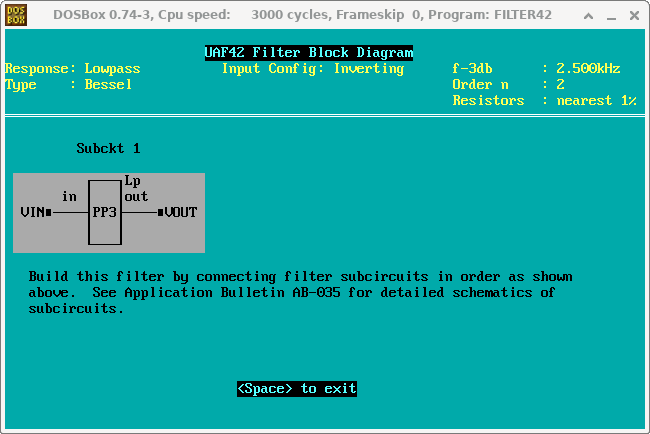
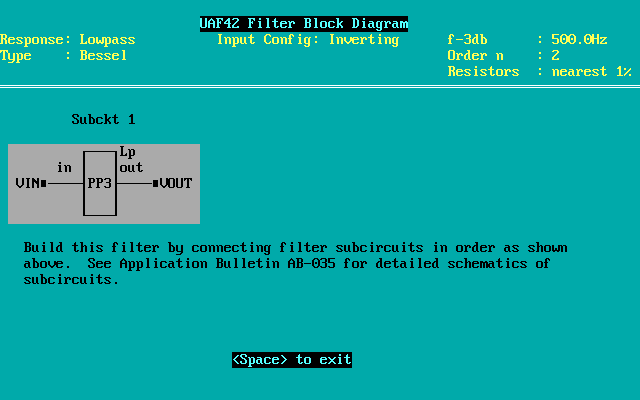
Update filter design

Changed region(s): [[0.0, 0.0, 1.0, 1.0], [0.3438, 0.87, 0.5625, 0.93]]

diff --git a/README.md b/README.md
@@ -1,15 +1,15 @@
-- [Repository Info](#org8175d29)
-- [Images](#org11c3d80)
-- [Schematic](#org97d0d8a)
-- [PCB](#org8b678ba)
-- [Bill of Materials](#orgc61f343)
-- [Development](#org061c413)
+- [Repository Info](#org3efd3b6)
+- [Images](#org4000d6c)
+- [Schematic](#org9702aa9)
+- [PCB](#orgc4c3abc)
+- [Bill of Materials](#org9a89b54)
+- [Development](#org04cc7a2)
 
     <!-- This file is generated automatically from metadata -->
     <!-- File edits may be overwritten! -->
 
 
-<a id="org8175d29"></a>
+<a id="org3efd3b6"></a>
 
 # Repository Info
 
@@ -54,7 +54,7 @@ The oscillating voltage signal can be fed into a data acquisition card, oscillos
 This device was first created at Caltech in the Dickinson lab in collaboration with Gaby Maimon around 2010. It has transformed over several generations, getting smaller and more robust each iteration. It has been used on rigs in multiple universities and research institutes and has been referenced in several papers. A couple of iterations were designed in collaboration with Sung Soo Kim and the Card lab at Janelia Research Campus. The latest version was created in collaboration with the Suver lab at Vanderbilt.
 
 
-<a id="org11c3d80"></a>
+<a id="org4000d6c"></a>
 
 # Images
 
@@ -71,7 +71,7 @@ This device was first created at Caltech in the Dickinson lab in collaboration w
 <img src="./documentation/pcb/right.png" width="1920">
 
 
-<a id="org97d0d8a"></a>
+<a id="org9702aa9"></a>
 
 # Schematic
 
@@ -88,12 +88,12 @@ This device was first created at Caltech in the Dickinson lab in collaboration w
 <img src="./documentation/schematic/wingbeat_detector-assembly.svg" width="1920">
 
 
-<a id="org8b678ba"></a>
+<a id="orgc4c3abc"></a>
 
 # PCB
 
 
-<a id="orgc61f343"></a>
+<a id="org9a89b54"></a>
 
 # Bill of Materials
 
@@ -123,7 +123,7 @@ This device was first created at Caltech in the Dickinson lab in collaboration w
 |      | Supplemental BOM Version: 1.0      |                          |                     |          | Total  | 1010.84 |
 
 
-<a id="org061c413"></a>
+<a id="org04cc7a2"></a>
 
 # Development
 
@@ -146,4 +146,7 @@ This device was first created at Caltech in the Dickinson lab in collaboration w
 ## Edit project
 
     make kicad-edits
+    exit
+
+    make filter-edits
     exit
